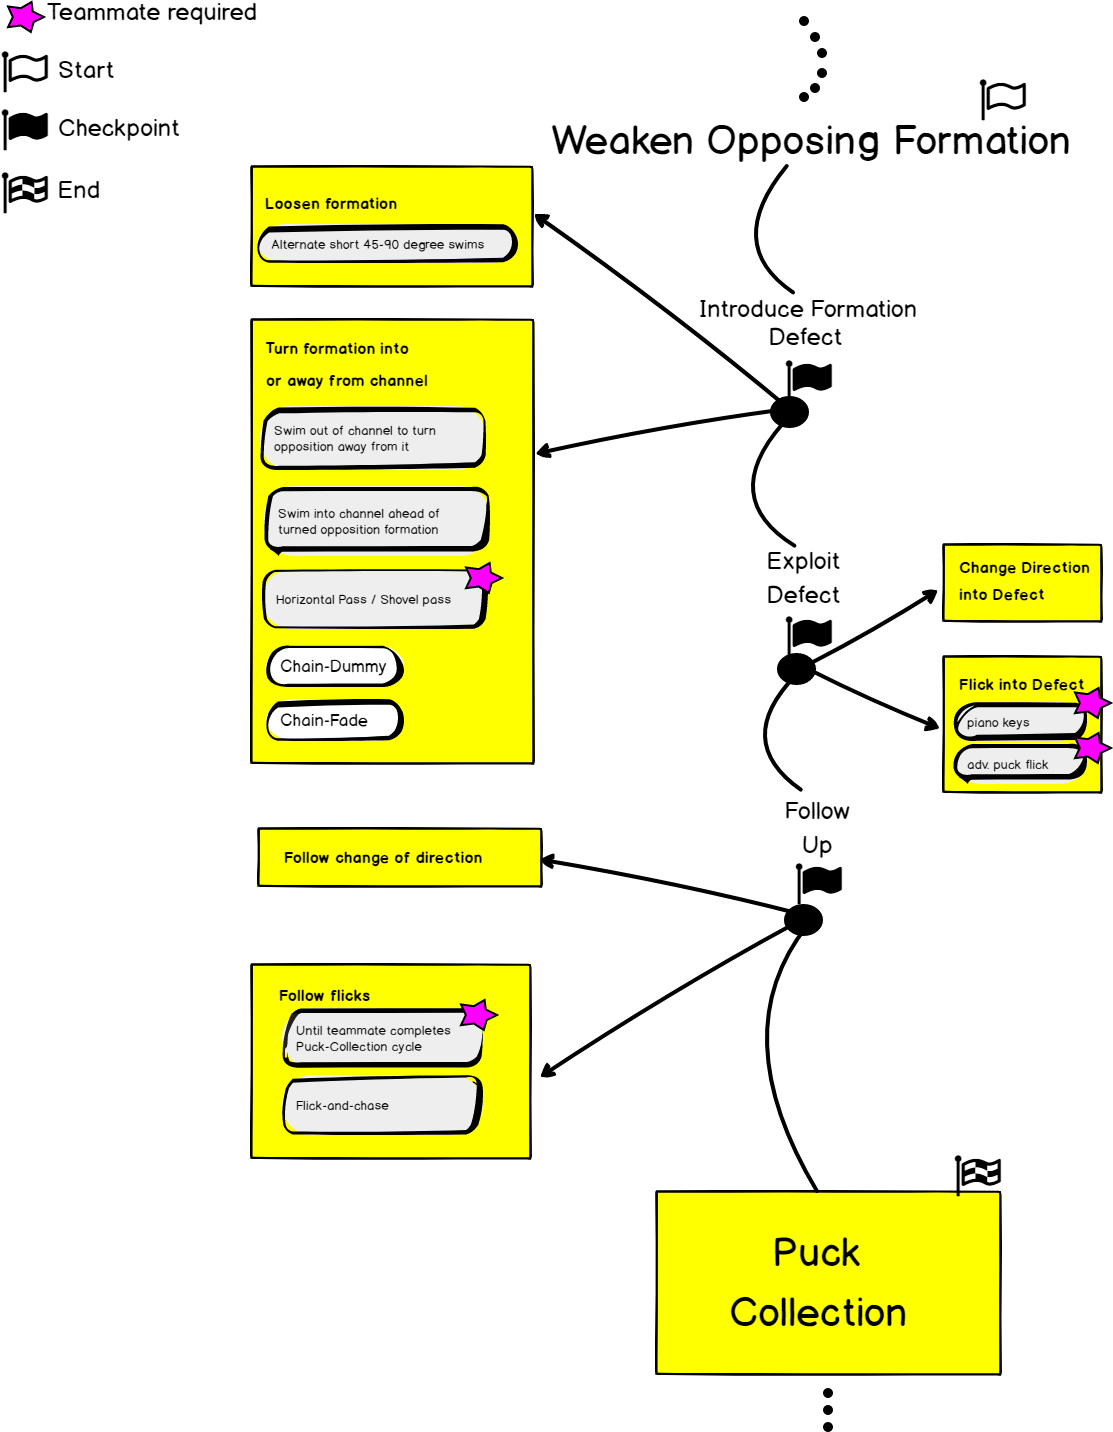
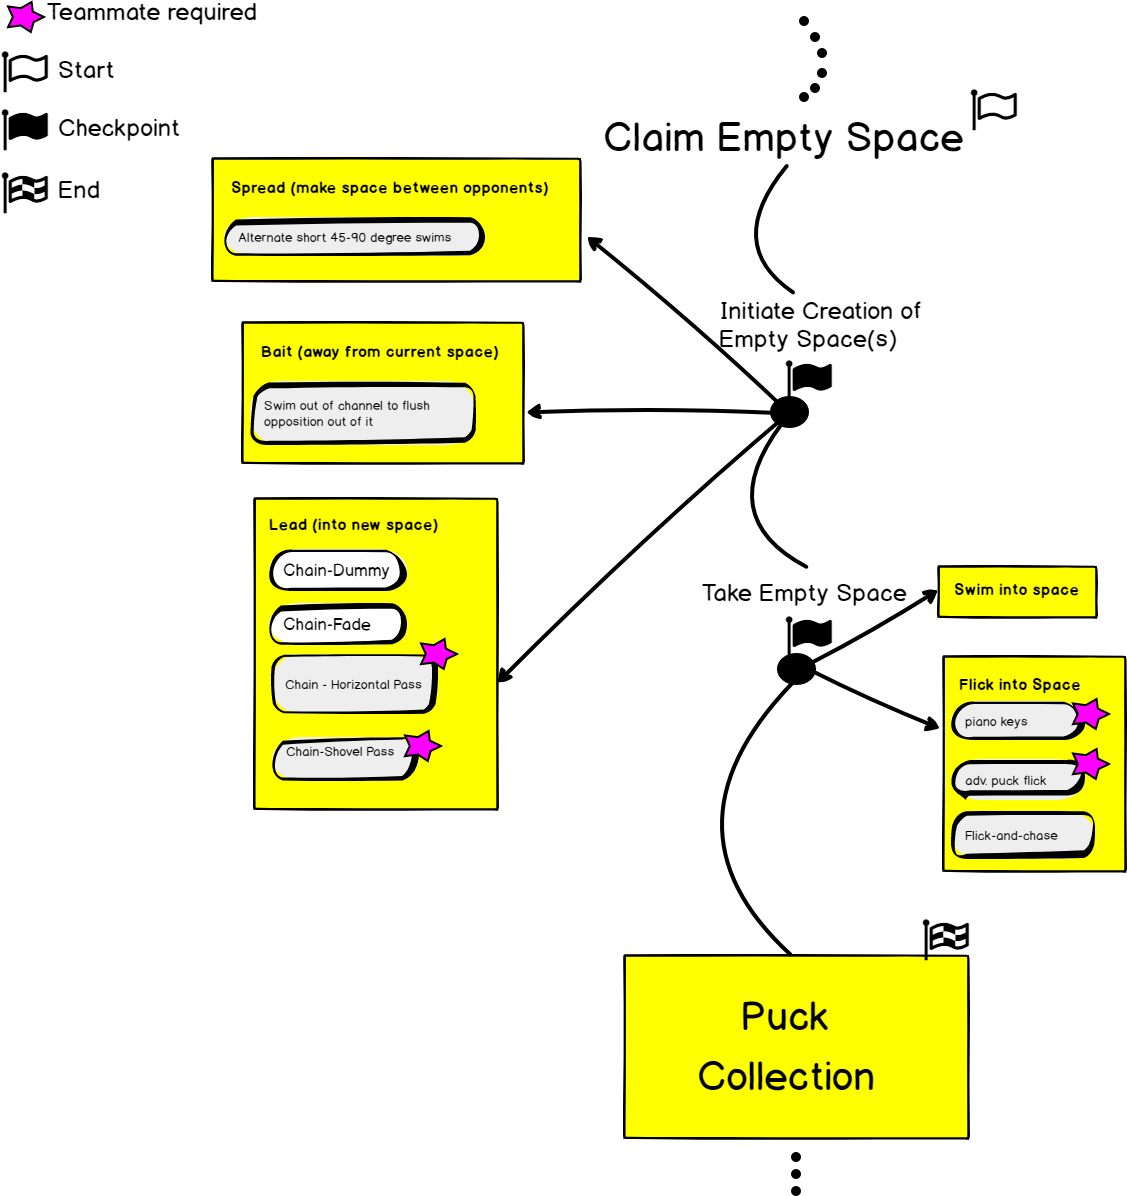
rename puck distribution to claim empty space

diff --git a/phase.js b/phase.js
@@ -24,7 +24,7 @@ module.exports = phase = {
 var Phase_Options = [
     {id: 1, display_name: "Wall_Corner", name: "Wall_Corner", x: 18.2, y: 23.5, width:12.4, height: 9, el: null},
     {id: 2, display_name: "Puck_Collection", name: "Puck_Collection", x: 73, y: 47.2, width: 12, height: 12, el: null},
-    {id: 3, display_name: "Weaken_Opposing_Formation", name: "Puck_Distribution", x: 58, y: 80.5, width: 19, height: 11.6, el: null},
+    {id: 3, display_name: "Claim_Empty_Space", name: "Puck_Distribution", x: 58, y: 80.5, width: 19, height: 11.6, el: null},
     {id: 4, display_name: "Eliminate_Opposing_Player", name: "Formation_Displacement", x: 81.7, y: 80.5, width: 18, height: 11.6, el: null},
     {id: 5, display_name: "Getting_Into_Position", name: "Getting_Into_Position", x: 35.6, y: 7, width: 16.2, height: 9.2, el: null}
 ];
@@ -66,7 +66,7 @@ var Phase_Keys = [
     {
         phase: 3,
         keys: [     
-            {id: 26, decision: "exploit_defect", card: "flick_into_defect", name: "piano_keys", x: 86, y: 49.1, width: 11, height: 2.2, el: null}
+            {id: 26, decision: "take_empty_space", card: "flick_into_space", name: "piano_keys", x: 84.2, y: 58.9, width: 11.5, height: 2.7, el: null}
         ]
     },
     {
